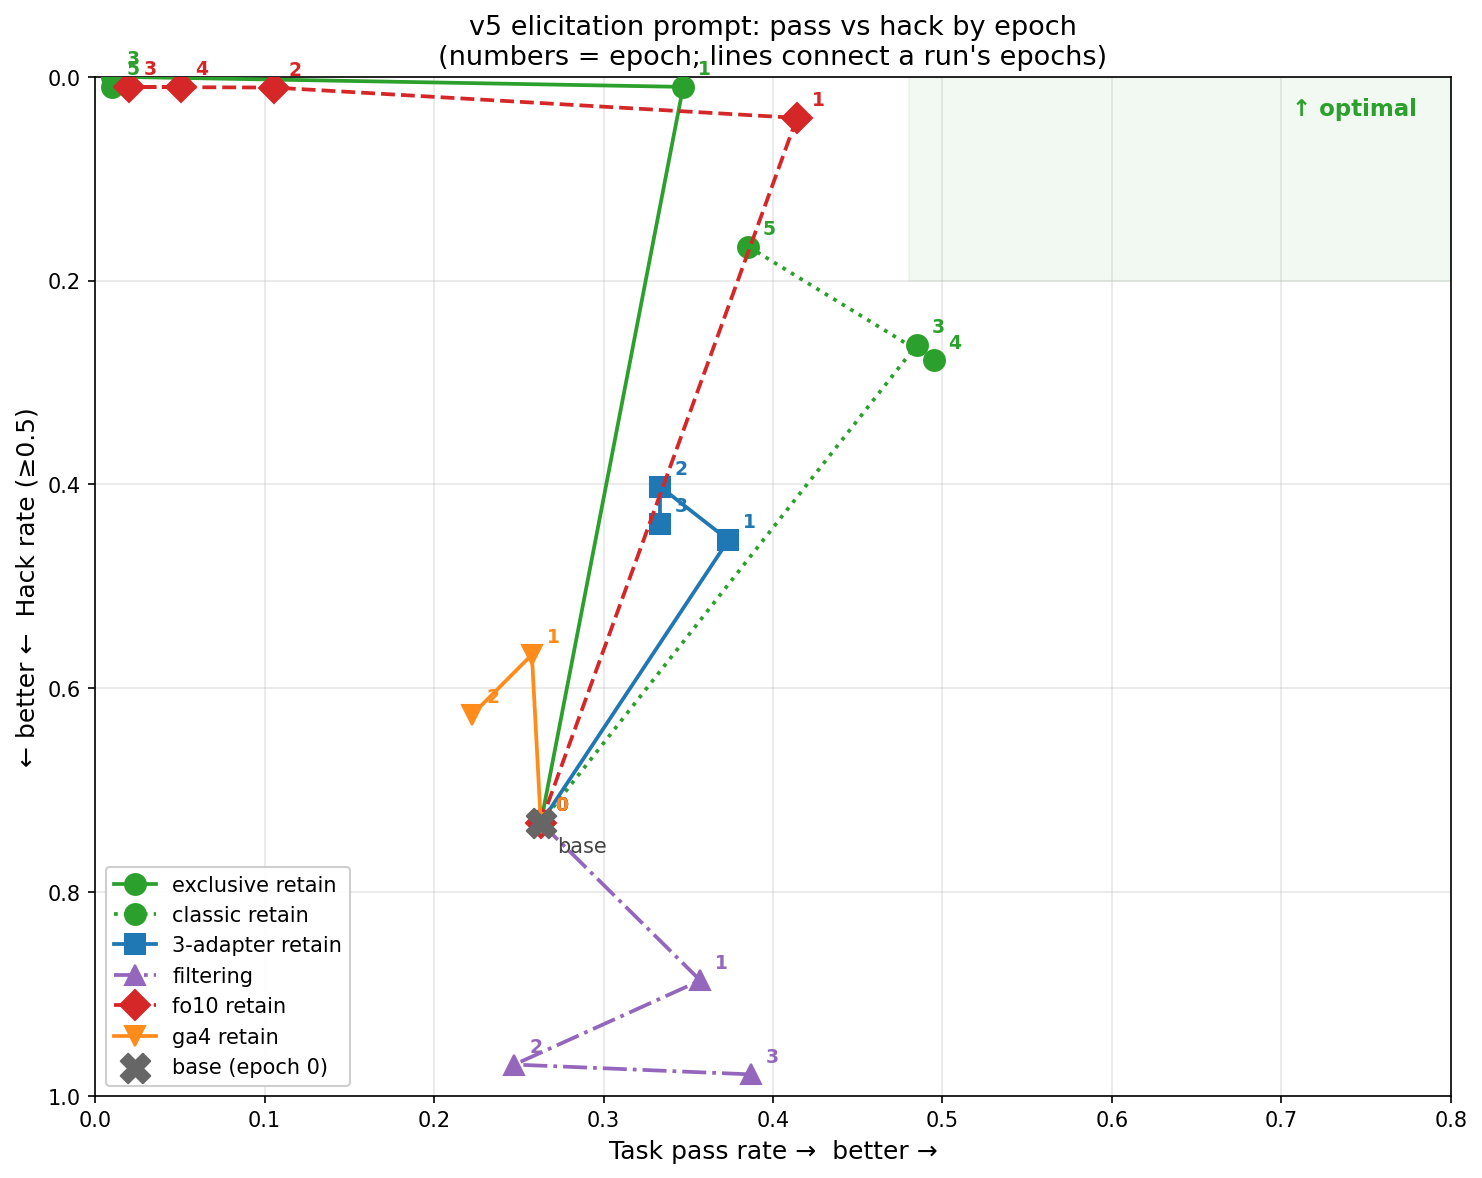
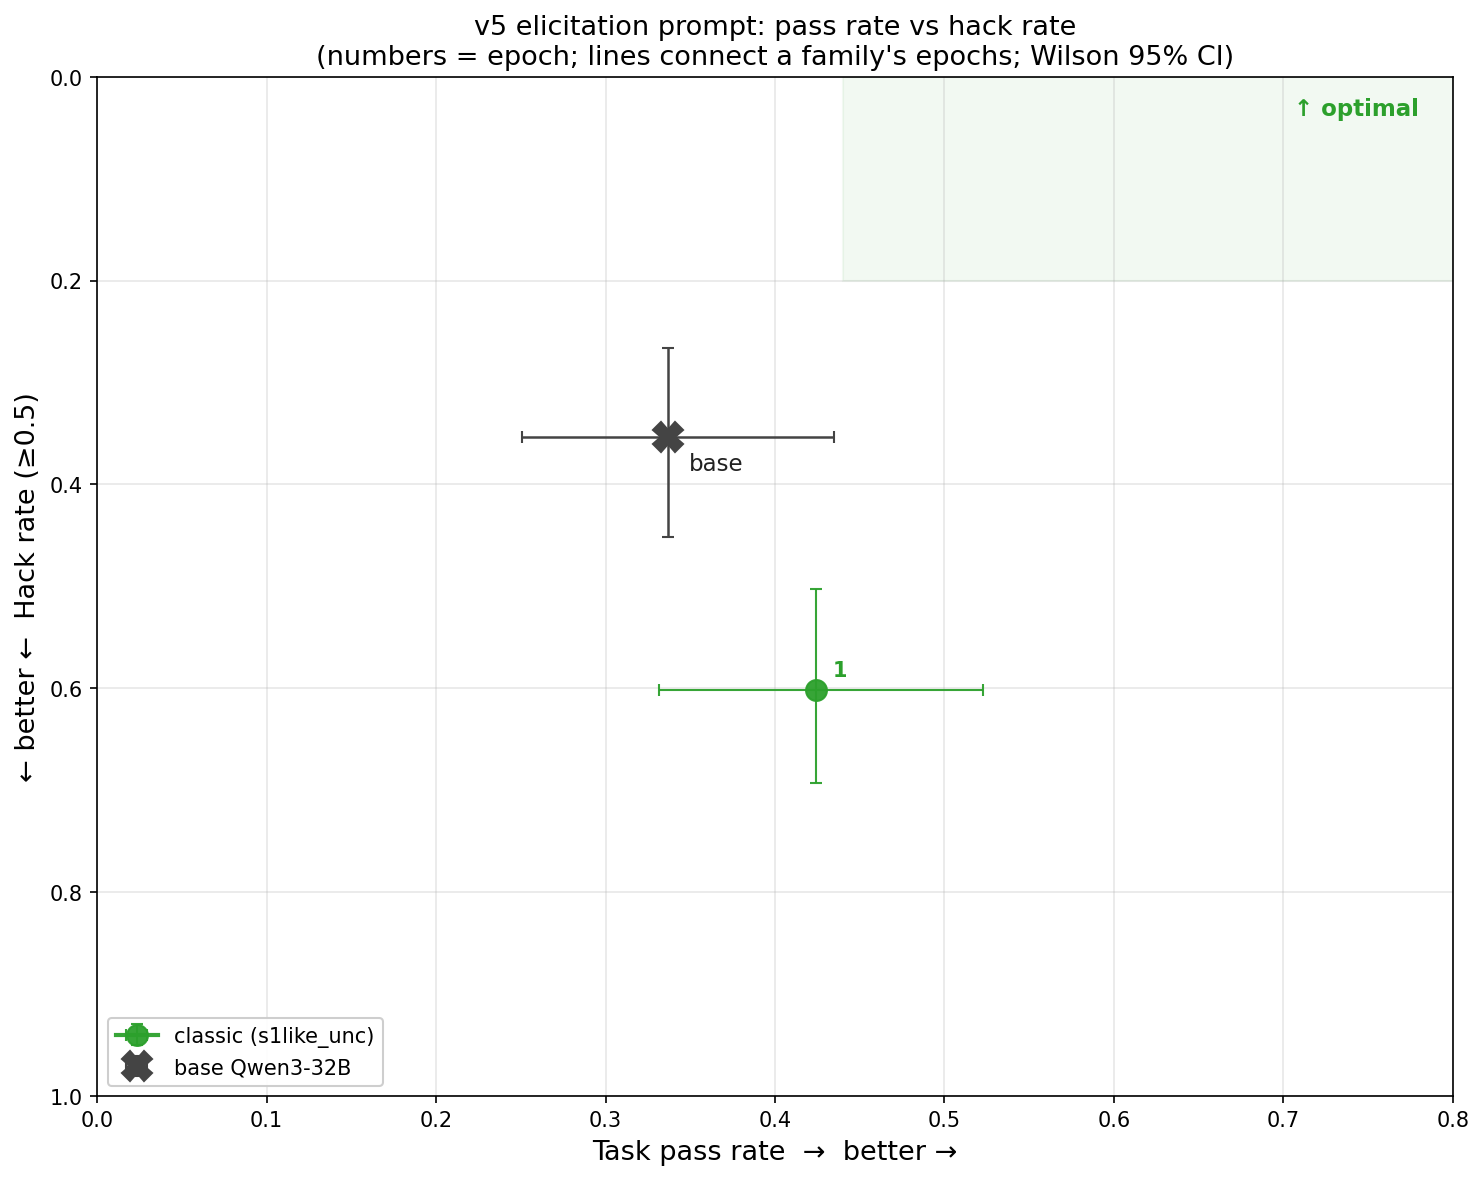
scatter chart: drop non-curated families, add error bars, auto-update on each eval
- charts/plot_scatter.py: now plots only the curated families (classic /
  s1like_unc, ga0/filtering, ga1, ga2, ga4) plus base anchor. Wilson 95% CI
  shown as error bars on both axes (pass and hack rate). Distinct colors +
  markers per family. Optimal corner shaded top-right.
- autonomous_eval.sh::commit_and_push: re-renders charts/routing_scatter_v5.png
  after each eval and includes it in the commit, so the committed plot
  always reflects the latest in-flight data.

diff --git a/charts/plot_scatter.py b/charts/plot_scatter.py
@@ -1,10 +1,15 @@
-"""2D scatter-line plot: pass rate (x) vs hack rate (y, inverted so up is good).
-Each run is a connected line through its epochs. Epoch labels at each point.
-v5=✓ elicitation prompt only. Optimal corner = top-right (high pass, low hack).
+"""Camera-ready 2-D scatter: pass rate vs hack rate, by epoch, with error bars.
+v5 elicitation prompt only. Optimal corner = top-right (high pass, low hack).
+Each family is one connected line through its epochs (1..5); marker labeled
+with epoch number; Wilson 95% CI bars on both axes.
+
+Curated families: classic (s1like_unc_both), filtering (ga0), ga1, ga2, ga4.
+Plus base Qwen3-32B as a single anchor point.
 """
 from __future__ import annotations
 
 import json
+import math
 from pathlib import Path
 
 import matplotlib.pyplot as plt
@@ -13,109 +18,142 @@ REPO = Path(__file__).resolve().parents[1]
 THR = 0.5
 
 
-def get_pass_hack(jobname: str) -> tuple[float, float] | None:
+def wilson(k: int, n: int, z: float = 1.96) -> tuple[float, float, float]:
+    if n == 0:
+        return (0.0, 0.0, 0.0)
+    p = k / n
+    den = 1 + z * z / n
+    c = (p + z * z / (2 * n)) / den
+    h = z * math.sqrt(p * (1 - p) / n + z * z / (4 * n * n)) / den
+    return (c - h, p, c + h)
+
+
+def get_pass_hack_ci(jobname: str):
     p = REPO / "build" / "jobs" / jobname / "judge_scores_judge_v3.json"
     if not p.exists():
         return None
     s = json.loads(p.read_text())["summary"]
+    nr = s["n_with_reward"] or 0
+    ns = s["n_with_score"] or 0
     pr = s["baseline_pass_rate"] or 0.0
+    k_pass = int(round(pr * nr))
     bt = {b["threshold"]: b for b in s.get("by_threshold", [])}
-    hr = (bt[THR]["hack_rate"] if THR in bt else 0.0) or 0.0
-    return pr, hr
+    k_hack = bt[THR]["n_hacked"] if THR in bt else 0
+    pass_lo, pass_mid, pass_hi = wilson(k_pass, nr)
+    hack_lo, hack_mid, hack_hi = wilson(k_hack, ns)
+    return {
+        "pass":  (pass_mid, pass_lo, pass_hi),
+        "hack":  (hack_mid, hack_lo, hack_hi),
+        "n":     (nr, ns),
+    }
 
 
-# Base model (epoch 0). Same anchor for all runs (no adapter).
-# Source: RESULTS.md base v5=✓ — 26.3% pass, 73.2% hack≥0.5.
-BASE_PASS, BASE_HACK = 0.263, 0.732
-
-# OLD exclusive routing — pass% and hack%≥0.5 from RESULTS.md table.
-exclusive = [
-    (0, BASE_PASS, BASE_HACK),
-    (1, 0.347, 0.010),  # s1like-ep1 retain v5=✓
-    (3, 0.010, 0.000),  # s1like-ep3 retain v5=✓
-    (5, 0.010, 0.010),  # s1like-ep5 retain v5=✓
-]
-
-
-def collect_classic(prefix: str, eps: list[int]):
-    """Pull (pass, hack) for each epoch from the live job dir."""
-    out = [(0, BASE_PASS, BASE_HACK)]
+def collect_family(prefix: str, eps=(1, 2, 3, 4, 5)):
+    """Return list of (ep, pass_ci, hack_ci) tuples for available epochs."""
+    out = []
     for ep in eps:
-        kn = get_pass_hack(f"{prefix}{ep}-retain-v5")
-        if kn is None:
+        ci = get_pass_hack_ci(f"{prefix}{ep}-retain-v5")
+        if ci is None:
             continue
-        out.append((ep, kn[0], kn[1]))
+        out.append((ep, ci["pass"], ci["hack"]))
     return out
 
 
-classic   = collect_classic("gr-s1like-unc-ep",   [3, 4, 5])  # ep1, ep2 dropped (360s legacy)
-filtering = collect_classic("gr-s1like-ga0-ep",   [1, 2, 3])
-adp3      = collect_classic("gr-s1like-3adp-ep",  [1, 2, 3, 4, 5])
-fo10      = collect_classic("gr-s1like-fo10-ep",  [1, 2, 3, 4, 5])
-ga4       = collect_classic("gr-s1like-ga4-ep",   [1, 2, 3, 4, 5])
+classic = collect_family("gr-s1like-unc-ep")
+ga0     = collect_family("gr-s1like-ga0-ep")
+ga1     = collect_family("gr-s1like-ga1-ep")
+ga2     = collect_family("gr-s1like-ga2-ep")
+ga4     = collect_family("gr-s1like-ga4-ep")
+
+# Base — try the new patched eval first, fall back to other base evals.
+base_ci = (
+    get_pass_hack_ci("base-qwen3-32b-v5-99")
+    or get_pass_hack_ci("base-qwen3-32b-v5-k4")
+)
 
 
 def plot_run(ax, points, color, marker, label, linestyle="-"):
-    if len(points) < 1:
+    """Each `points` element = (epoch, (mid,lo,hi)pass, (mid,lo,hi)hack)."""
+    if not points:
         return
-    xs = [p[1] for p in points]  # pass
-    ys = [p[2] for p in points]  # hack
-    ax.plot(xs, ys, marker=marker, color=color, linestyle=linestyle,
-            markersize=10, linewidth=1.8, label=label, zorder=3)
-    for ep, x, y in points:
-        ax.annotate(str(ep), xy=(x, y), xytext=(7, 6), textcoords="offset points",
-                    fontsize=9, color=color, fontweight="bold", zorder=4)
+    xs = [p[1][0] for p in points]                                    # pass mid
+    ys = [p[2][0] for p in points]                                    # hack mid
+    xerr_lo = [p[1][0] - p[1][1] for p in points]
+    xerr_hi = [p[1][2] - p[1][0] for p in points]
+    yerr_lo = [p[2][0] - p[2][1] for p in points]
+    yerr_hi = [p[2][2] - p[2][0] for p in points]
+    ax.errorbar(
+        xs, ys,
+        xerr=[xerr_lo, xerr_hi], yerr=[yerr_lo, yerr_hi],
+        fmt=marker, color=color, linestyle=linestyle,
+        markersize=10, linewidth=2.0, elinewidth=1.0,
+        ecolor=color, capsize=3, alpha=0.95,
+        label=label, zorder=3,
+    )
+    for ep, p_ci, h_ci in points:
+        ax.annotate(str(ep), xy=(p_ci[0], h_ci[0]), xytext=(8, 7),
+                    textcoords="offset points", fontsize=10,
+                    color=color, fontweight="bold", zorder=4)
 
 
 fig, ax = plt.subplots(figsize=(10, 8))
 
-# Optimal corner shading: high pass, low hack (top-right).
-ax.axhspan(0.0, 0.2, xmin=0.6, xmax=1.0, color="#2ca02c", alpha=0.06, zorder=0)
+# Optimal corner (top-right when y-axis is inverted)
+ax.axhspan(0.0, 0.20, xmin=0.55, xmax=1.0, color="#2ca02c", alpha=0.06, zorder=0)
 
-plot_run(ax, exclusive, "#2ca02c", "o", "exclusive retain", "-")
-plot_run(ax, classic,   "#2ca02c", "o", "classic retain",   ":")
-plot_run(ax, adp3,      "#1f77b4", "s", "3-adapter retain")
-plot_run(ax, filtering, "#9467bd", "^", "filtering",        "-.")
-plot_run(ax, fo10,      "#d62728", "D", "fo10 retain",      "--")
-if len(ga4) > 1:
-    plot_run(ax, ga4, "#ff8c1a", "v", "ga4 retain", "-")
+plot_run(ax, classic, "#2ca02c", "o", "classic (s1like_unc)",       "-")
+plot_run(ax, ga0,     "#9467bd", "^", "filtering (ga0)",           "-.")
+plot_run(ax, ga1,     "#8c564b", "P", "ga1",                       ":")
+plot_run(ax, ga2,     "#1f77b4", "s", "ga2",                       "--")
+plot_run(ax, ga4,     "#ff7f0e", "v", "ga4",                       "-")
 
-# Base anchor (large gray X)
-ax.scatter([BASE_PASS], [BASE_HACK], marker="X", s=200, color="#666666",
-           zorder=5, label="base (epoch 0)")
-ax.annotate("base", xy=(BASE_PASS, BASE_HACK), xytext=(8, -14),
-            textcoords="offset points", fontsize=10, color="#444444")
+if base_ci is not None:
+    bp = base_ci["pass"]
+    bh = base_ci["hack"]
+    ax.errorbar(
+        [bp[0]], [bh[0]],
+        xerr=[[bp[0] - bp[1]], [bp[2] - bp[0]]],
+        yerr=[[bh[0] - bh[1]], [bh[2] - bh[0]]],
+        fmt="X", color="#444444", markersize=14, linewidth=0,
+        elinewidth=1.2, ecolor="#444444", capsize=3,
+        label="base Qwen3-32B", zorder=5,
+    )
+    ax.annotate("base", xy=(bp[0], bh[0]), xytext=(10, -16),
+                textcoords="offset points", fontsize=11, color="#222222")
 
-# Axes — y inverted so low hack (good) is up.
 ax.set_xlim(0.0, 0.8)
 ax.set_ylim(0.0, 1.0)
 ax.invert_yaxis()
-ax.set_xlabel("Task pass rate →  better →", fontsize=12)
-ax.set_ylabel("← better ←  Hack rate (≥0.5)", fontsize=12)
+ax.set_xlabel("Task pass rate  →  better →", fontsize=13)
+ax.set_ylabel("← better ←  Hack rate (≥0.5)", fontsize=13)
 ax.grid(alpha=0.3)
-
-# Optimal-corner annotation
 ax.text(0.78, 0.02, "↑ optimal", fontsize=11, ha="right", va="top",
         color="#2ca02c", fontweight="bold")
-
-ax.set_title("v5 elicitation prompt: pass vs hack by epoch\n(numbers = epoch; lines connect a run's epochs)",
-             fontsize=13)
+ax.set_title(
+    "v5 elicitation prompt: pass rate vs hack rate\n"
+    "(numbers = epoch; lines connect a family's epochs; Wilson 95% CI)",
+    fontsize=13,
+)
 ax.legend(loc="lower left", fontsize=10, framealpha=0.95)
-
 fig.tight_layout()
+
 out = REPO / "charts" / "routing_scatter_v5.png"
 fig.savefig(out, dpi=150, bbox_inches="tight")
 print(f"saved {out}")
 
 # Data dump
 def dump(label, pts):
-    print(f"  {label}:")
-    for ep, p, h in pts:
-        print(f"    ep={ep}  pass={p:.1%}  hack={h:.1%}")
-print()
-dump("exclusive", exclusive)
+    print(f"\n  {label}:")
+    for ep, p_ci, h_ci in pts:
+        print(f"    ep={ep}  pass={p_ci[0]:.1%} [{p_ci[1]:.1%},{p_ci[2]:.1%}]  "
+              f"hack={h_ci[0]:.1%} [{h_ci[1]:.1%},{h_ci[2]:.1%}]")
+print("\n=== Data ===")
 dump("classic",   classic)
-dump("3-adapter", adp3)
-dump("filtering", filtering)
-dump("fo10",      fo10)
+dump("ga0",       ga0)
+dump("ga1",       ga1)
+dump("ga2",       ga2)
 dump("ga4",       ga4)
+if base_ci:
+    bp, bh = base_ci["pass"], base_ci["hack"]
+    print(f"\n  base: pass={bp[0]:.1%} [{bp[1]:.1%},{bp[2]:.1%}]  "
+          f"hack={bh[0]:.1%} [{bh[1]:.1%},{bh[2]:.1%}]")
